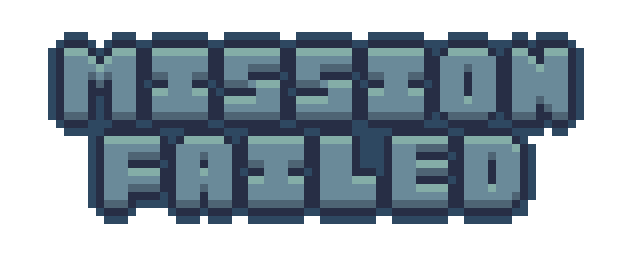
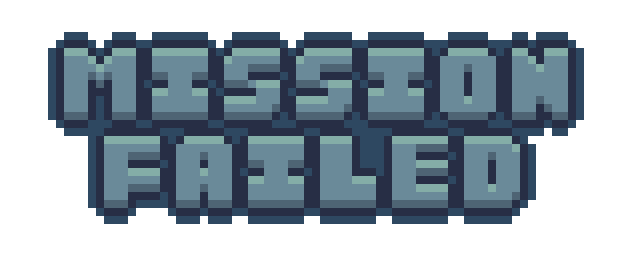
Respawn mostly working, added win condition

diff --git a/Panel.java b/Panel.java
@@ -108,7 +108,7 @@ public class Panel extends JPanel implements Runnable, KeyListener {
     boolean inWallLeft = false, inWallRight = false;
     boolean reloadBarRed = false, shootButtonPushed = false;
     boolean canDash = true, dashing = false, dashBarFull = false, dashBarRed = false, dashButtonPushed = false;
-    static boolean titleScreen = true, gameOver = false;
+    static boolean titleScreen = true, gameOver = false, win = false;
 
     // Rectangles
     static Rectangle playerCol = new Rectangle(0, 0, playerWidth - playerColXOffset * 2,
@@ -164,8 +164,7 @@ public class Panel extends JPanel implements Runnable, KeyListener {
                 repaint();
                 move();
                 checkCollisions();
-                if (gameTime % 20 == 0)
-                    System.out.println(lastInRoom);
+                checkWin();
                 delta--;
                 gameTime++;
             }
@@ -409,8 +408,10 @@ public class Panel extends JPanel implements Runnable, KeyListener {
     }
 
     public void paintDeathUI(Graphics g, Graphics2D g2D) { // Paints death screen interface.
-        if (gameOver) { // Only paints on gameOver screen.
+        if (win)
+            missionFailedImg = new ImageIcon("missionSuccess.png").getImage();
 
+        if (gameOver) { // Only paints on gameOver screen.
             if (deathUIY < HEIGHT / 2) // This makes deathButtons appear to slide in from behind missionFailedImg.
                 g2D.drawImage(deathButtonsImg, WIDTH / 2 - deathButtonsImg.getWidth(null) / 2,
                         HEIGHT - deathUIY + deathButtonsImg.getHeight(null) / 2, null);
@@ -628,7 +629,9 @@ public class Panel extends JPanel implements Runnable, KeyListener {
                 if (panYDone) // Once panYDone is true, set lastInRoom to be inRoom.
                     lastInRoom = lastRoom;
             }
-        if (gameOver && parallax > -HEIGHT * 3)
+        if (gameOver && win && parallax < parallaxMax) // Pan upwards quickly if player wins.
+            parallax = parallax + 2;
+        else if (gameOver && parallax > -HEIGHT * 3 && !win)
             parallax = parallax - 2; // Pan downwards if player dies.
 
         if (!titleScreen && !gameOver && lastInRoom == -1 && parallax != 0) { // This triggers as soon as titleScreen is
@@ -1012,6 +1015,16 @@ public class Panel extends JPanel implements Runnable, KeyListener {
             particles.remove(0); // If too many particles on screen, remove the first particles in arrayList.
     }
 
+    public void checkWin() { // Triggers win condition when all enemies are dead.
+        if (room.get(room.size() - 1).enemy.size() == 0)
+            win();
+    }
+
+    public void win() {
+        win = true;
+        gameOver = true;
+    }
+
     public void keyTyped(KeyEvent e) {
     }
 
@@ -1125,8 +1138,12 @@ public class Panel extends JPanel implements Runnable, KeyListener {
     public void reset() {
         gameOver = false;
 
-        healthMax = healthMax - 1; // Reduces maximum health by 1.
         health = healthMax;
+
+        for (int i = 0; i < room.size(); i++)
+            for (int j = 0; j < room.get(i).enemy.size(); j++)
+                if (room.get(i).enemy.get(j).isBoss)
+                    room.get(i).enemy.get(j).x = CHUNK * 2;
 
         checkPan(); // Makes sure camera pans up to room above players death.
 

diff --git a/Ladder.java b/Ladder.java
@@ -48,11 +48,11 @@ public class Ladder {
             if (Panel.lastRoom < level || Panel.lastRoom > level || Panel.gameOver)
                 // Triggers when player is one room above or below ladder.
                 ladderImg = new ImageIcon("ladderDark.png").getImage();
-            if (!Panel.gameOver) {
+            if (!Panel.gameOver || level == 0) {
                 if (Panel.lastRoom == level)
                     // Triggers when player is in the same room as ladder.
                     ladderImg = new ImageIcon("ladderDarkTop.png").getImage();
-                if (Panel.lastRoom == level - 1)
+                if (Panel.lastRoom == level - 1 || level == 0 && Panel.gameOver)
                     // Triggers when player is one room above player. Overrides ladderDark.
                     ladderImg = new ImageIcon("ladderDarkBottom.png").getImage();
                 if (Panel.lastRoom == level && level == 0)
@@ -62,10 +62,10 @@ public class Ladder {
         } else { // Broken ladder variants.
             if (Panel.lastRoom < level || Panel.lastRoom > level || Panel.gameOver)
                 ladderImg = new ImageIcon("ladderBrokenDark.png").getImage();
-            if (!Panel.gameOver) {
+            if (!Panel.gameOver || level ==0) {
                 if (Panel.lastRoom == level)
                     ladderImg = new ImageIcon("ladderBrokenDarkTop.png").getImage();
-                if (Panel.lastRoom == level - 1)
+                if (Panel.lastRoom == level - 1 || level == 0 && Panel.gameOver)
                     ladderImg = new ImageIcon("ladderBrokenDarkBottom.png").getImage();
                 if (Panel.lastRoom == level && level == 0)
                     ladderImg = new ImageIcon("ladderBroken.png").getImage();

diff --git a/Enemy.java b/Enemy.java
@@ -115,7 +115,7 @@ public class Enemy {
                 break;
         }
 
-        if (Panel.lastInRoom == level) { // Activate when player enters enemies level.
+        if (Panel.lastRoom == level) { // Activate when player enters enemies level.
             if (growHeight < height) {
                 growHeight = growHeight + height / 4; // Increase growheight.
                 if (facingLeft)
